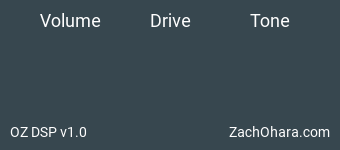
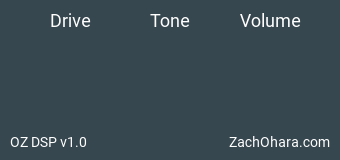
Update to incorporate new common code repo

diff --git a/OZDSP_Overdrive.cpp b/OZDSP_Overdrive.cpp
@@ -7,9 +7,9 @@ const int kNumPrograms = 0;
 
 enum EParams
 {
-	kVolumePid,
 	kDrivePid,
 	kTonePid,
+	kVolumePid,
 	kNumParams
 };
 
@@ -19,27 +19,35 @@ enum ELayout
 	kHeight = GUI_HEIGHT,
 	kKnobFrames = 128,
 
-	kVolumeKnobX = 30,
-	kVolumeKnobY = 35,
-	kDriveKnobX = 130,
+	kDriveKnobX = 30,
 	kDriveKnobY = 35,
-	kToneKnobX = 230,
-	kToneKnobY = 35
+	kDriveLabelX = 30,
+	kDriveLabelY = 105,
+	kDriveLabelWidth = 80,
+
+	kToneKnobX = 130,
+	kToneKnobY = 35,
+	kToneLabelX = 130,
+	kToneLabelY = 105,
+	kToneLabelWidth = 80,
+
+	kVolumeKnobX = 230,
+	kVolumeKnobY = 35,
+	kVolumeLabelX = 230,
+	kVolumeLabelY = 105,
+	kVolumeLabelWidth = 80
 };
 
 OZDSP_Overdrive::OZDSP_Overdrive(IPlugInstanceInfo instanceInfo) :
 	IPLUG_CTOR(kNumParams, kNumPrograms, instanceInfo),
-	mVolume(0.5),
-	mThreshold(1.0),
-	mTone(0.5)
+	mThreshold(1.0)
 {
 	TRACE;
 
 	//arguments are: name, defaultVal, minVal, maxVal, step, label
-	GetParam(kVolumePid)->InitDouble("Volume", 5.0, 0.0, 10.0, 0.01, "");
-	GetParam(kDrivePid)->InitDouble("Drive", 0.0, 0.0, 10.0, 0.01, "");
-	GetParam(kTonePid)->InitDouble("Tone", 100.0, 0.0, 100.0, 0.01, "%");
-
+	InitPercentParameter(GetParam(kDrivePid), "Drive", 0.0);
+	InitPercentParameter(GetParam(kTonePid), "Tone", 100.0);
+	InitVolumeParameter(GetParam(kVolumePid));
 
 	IGraphics* pGraphics = MakeGraphics(this, kWidth, kHeight);
 	pGraphics->AttachBackground(BACKGROUND_RID, BACKGROUND_FN);
@@ -50,9 +58,18 @@ OZDSP_Overdrive::OZDSP_Overdrive(IPlugInstanceInfo instanceInfo) :
 	pGraphics->AttachControl(new IKnobMultiControl(this, kDriveKnobX, kDriveKnobY, kDrivePid, &knob80));
 	pGraphics->AttachControl(new IKnobMultiControl(this, kToneKnobX, kToneKnobY, kTonePid, &knob80));
 
+	mpDriveLabel = new ParamValueLabel(this, kDrivePid, kDriveLabelX, kDriveLabelY, kDriveLabelWidth);
+	mpToneLabel = new ParamValueLabel(this, kTonePid, kToneLabelX, kToneLabelY, kToneLabelWidth);
+	mpVolumeLabel = new ParamValueLabel(this, kVolumePid, kVolumeLabelX, kVolumeLabelY, kVolumeLabelWidth);
+
+	pGraphics->AttachControl(mpDriveLabel);
+	pGraphics->AttachControl(mpToneLabel);
+	pGraphics->AttachControl(mpVolumeLabel);
+
 	AttachGraphics(pGraphics);
 
 	CreatePresets();
+	ForceUpdateParams(this);
 }
 
 OZDSP_Overdrive::~OZDSP_Overdrive() {}
@@ -87,10 +104,12 @@ void OZDSP_Overdrive::ProcessDoubleReplacing(double** inputs, double** outputs, 
 			out /= mThreshold;
 
 			// Apply the mix setting
-			out = (mTone * out) + ((1 - mTone) * in);
+			//out = (mTone * out) + ((1 - mTone) * in);
+			out = mToneControl.GetAdjustedSample(in, out);
 
 			// Apply the volume setting
-			out *= mVolume;
+			//out *= mVolume;
+			out = mVolumeControl.GetAdjustedSample(out);
 
 			// Output
 			outputs[j][i] = out;
@@ -110,15 +129,19 @@ void OZDSP_Overdrive::OnParamChange(int paramIdx)
 
 	switch (paramIdx)
 	{
-	case kVolumePid:
-		mVolume = pow(GetParam(kVolumePid)->Value() / 10, 2);
 	case kDrivePid:
-		mThreshold = 1 - (GetParam(kDrivePid)->Value() / 10);
+		mThreshold = 1 - (GetParam(kDrivePid)->Value() / 100.0);
 		mThreshold = pow(mThreshold, 2);
 		mThreshold = max(mThreshold, MIN_THRESHOLD);
+		mpDriveLabel->UpdateDisplay();
 		break;
 	case kTonePid:
-		mTone = GetParam(kTonePid)->Value() / 100;
+		mToneControl.SetMixPercent(GetParam(kTonePid)->Value());
+		mpToneLabel->UpdateDisplay();
+		break;
+	case kVolumePid:
+		HandleVolumeParamChange(GetParam(kVolumePid), &mVolumeControl);
+		mpVolumeLabel->UpdateDisplay();
 		break;
 	default:
 		break;

diff --git a/OZDSP_Overdrive.h b/OZDSP_Overdrive.h
@@ -2,9 +2,13 @@
 #define __OZDSP_OVERDRIVE__
 
 #include "IPlug_include_in_plug_hdr.h"
-#include <iostream>
-#include <math.h>
+
 #include <minmax.h>
+
+#include "../OZDSP_Common/CommonParameters.h"
+#include "../OZDSP_Common/ParamValueLabel.h"
+#include "../OZDSP_Common/ToneControl.h"
+#include "../OZDSP_Common/VolumeControl.h"
 
 static const double MIN_THRESHOLD = 0.01;
 
@@ -19,9 +23,14 @@ public:
 	void ProcessDoubleReplacing(double** inputs, double** outputs, int nFrames);
 
 private:
-	double mVolume;
+	ToneControl mToneControl;
+	VolumeControl mVolumeControl;
+
+	ParamValueLabel* mpDriveLabel;
+	ParamValueLabel* mpToneLabel;
+	ParamValueLabel* mpVolumeLabel;
+
 	double mThreshold;
-	double mTone;
 
 	void CreatePresets();
 };

diff --git a/resource.h b/resource.h
@@ -50,7 +50,7 @@ instrument determined by PLUG _IS _INST
 #define PLUG_CHANNEL_IO "1-1 2-2"
 
 #define PLUG_LATENCY 0
-#define PLUG_IS_INST 1
+#define PLUG_IS_INST 0
 
 // if this is 0 RTAS can't get tempo info
 #define PLUG_DOES_MIDI 0
@@ -67,7 +67,7 @@ instrument determined by PLUG _IS _INST
 
 // GUI default dimensions
 #define GUI_WIDTH 340
-#define GUI_HEIGHT 150
+#define GUI_HEIGHT 160
 
 // on MSVC, you must define SA_API in the resource editor preprocessor macros as well as the c++ ones
 #if defined(SA_API)
